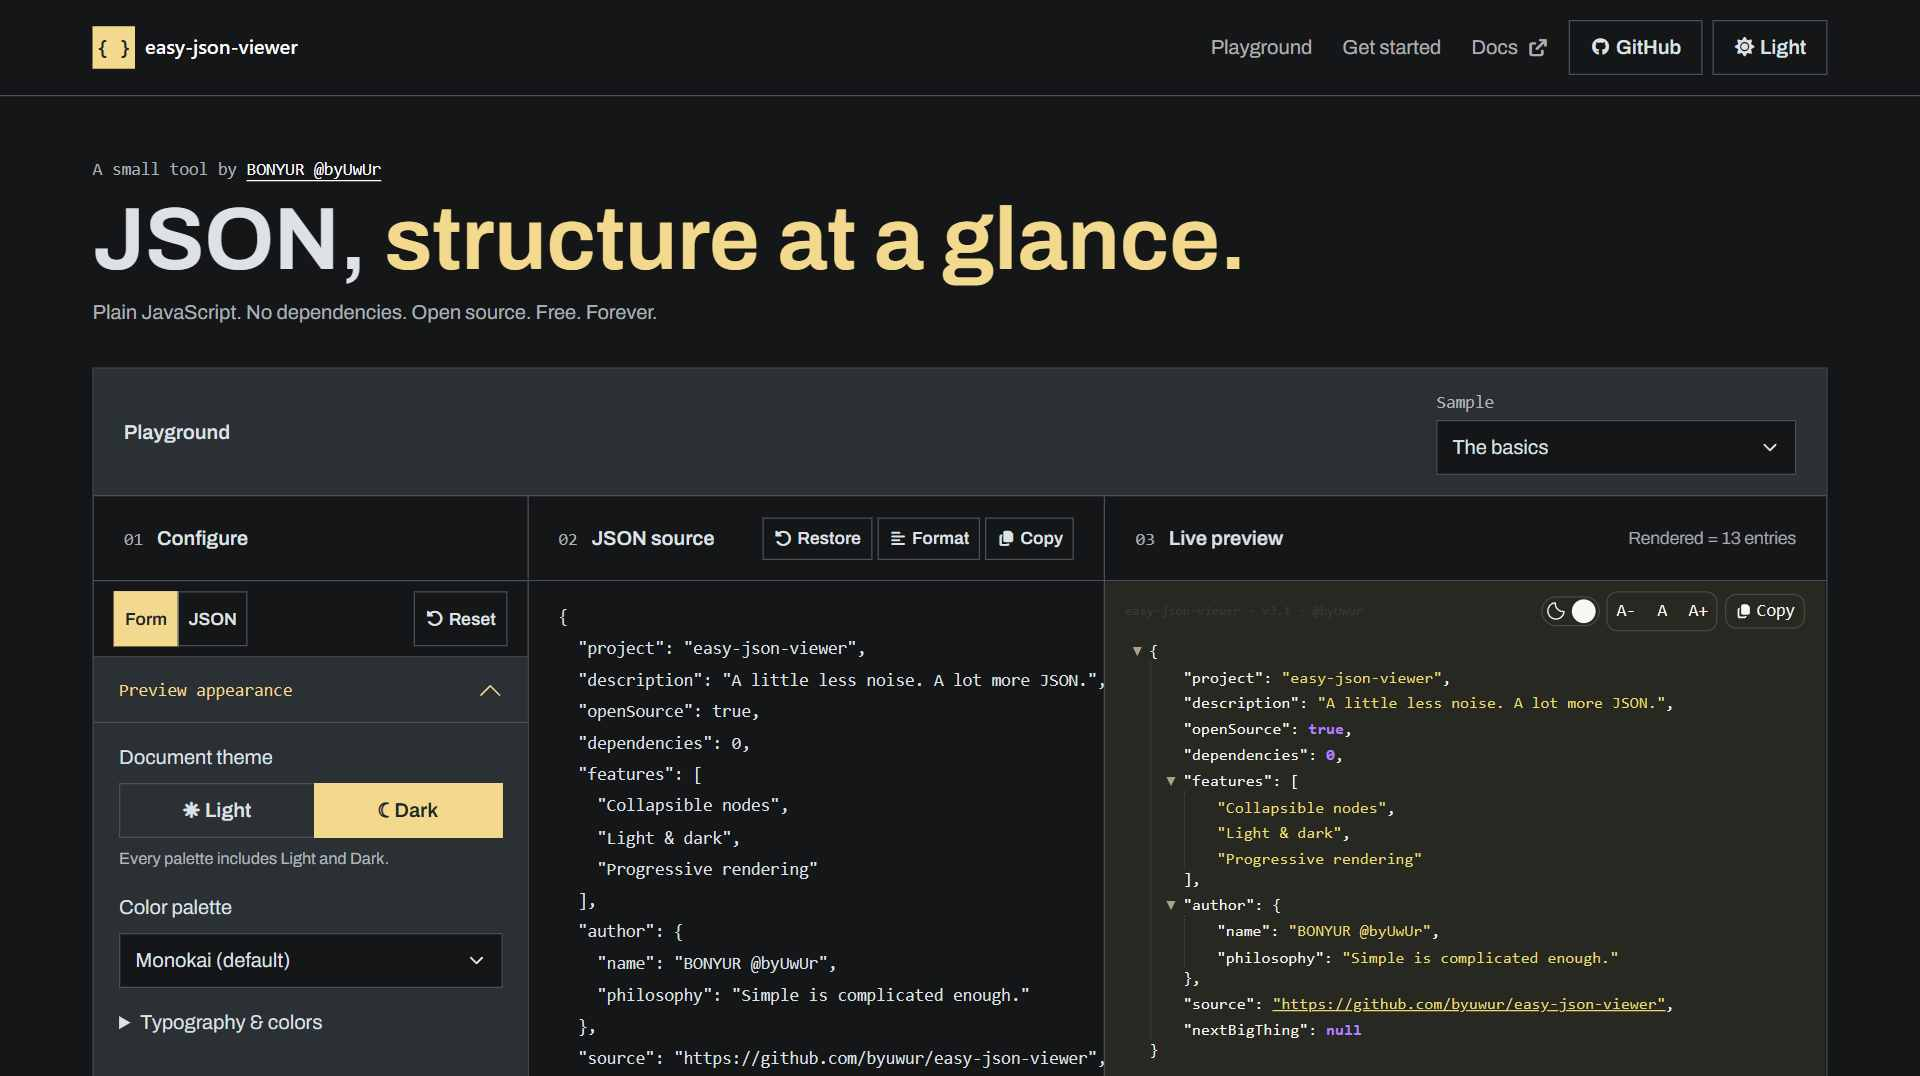
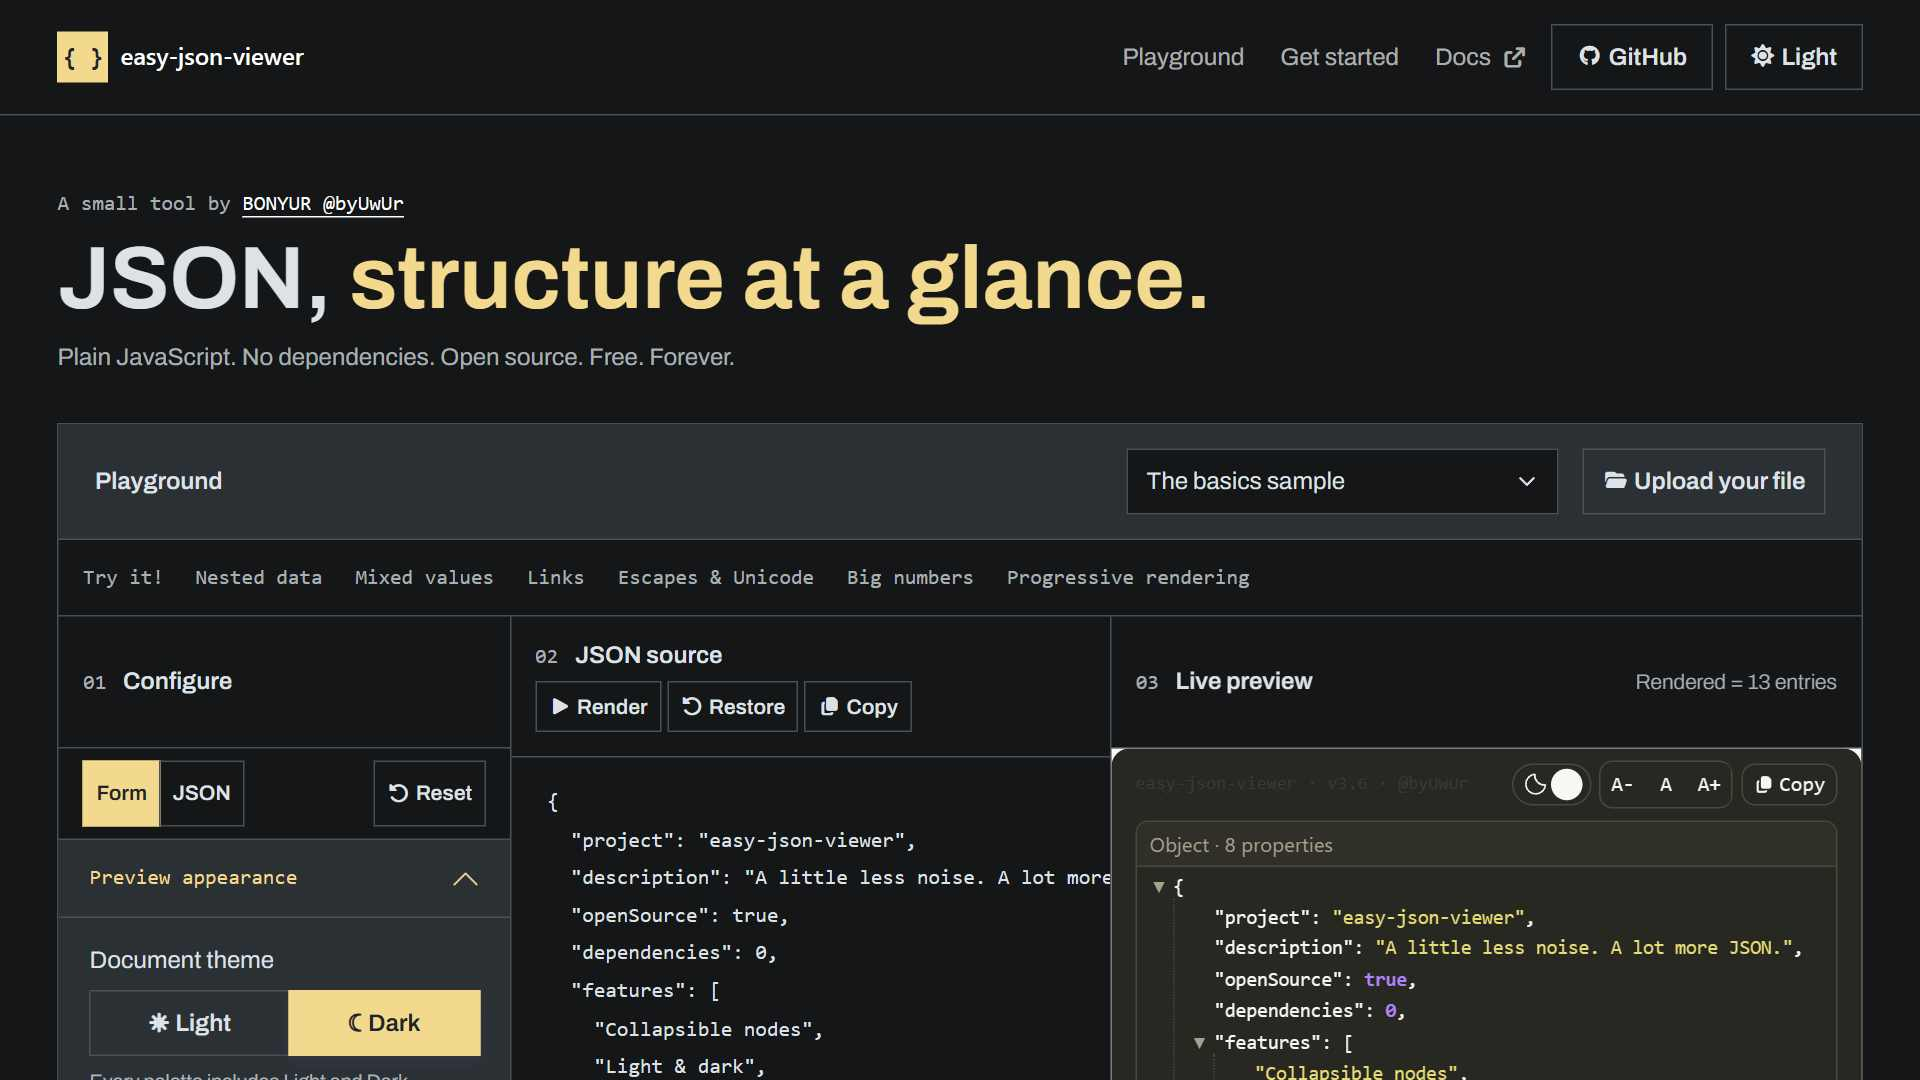
[Update] [Previews] Refresh the 1080p playground preview
Refresh the preview capture at 150% scaling, with exact 1920x1080 JPEG output capped at 100000 bytes. Align image-height metadata where present.

Validation: JPEG format, dimensions, and byte limits; affected-file diff checks.

diff --git a/index.html b/index.html
@@ -24,7 +24,7 @@
     <meta property="og:image" content="https://json.byuwur.co/prev.jpg" />
     <meta property="og:image:type" content="image/jpeg" />
     <meta property="og:image:width" content="1920" />
-    <meta property="og:image:height" content="1076" />
+    <meta property="og:image:height" content="1080" />
     <meta property="og:image:alt" content="easy-json-viewer by BONYUR: JSON playground, options, source editor, and live preview." />
     <meta name="twitter:card" content="summary_large_image" />
     <meta name="twitter:creator" content="@byUwUr" />
